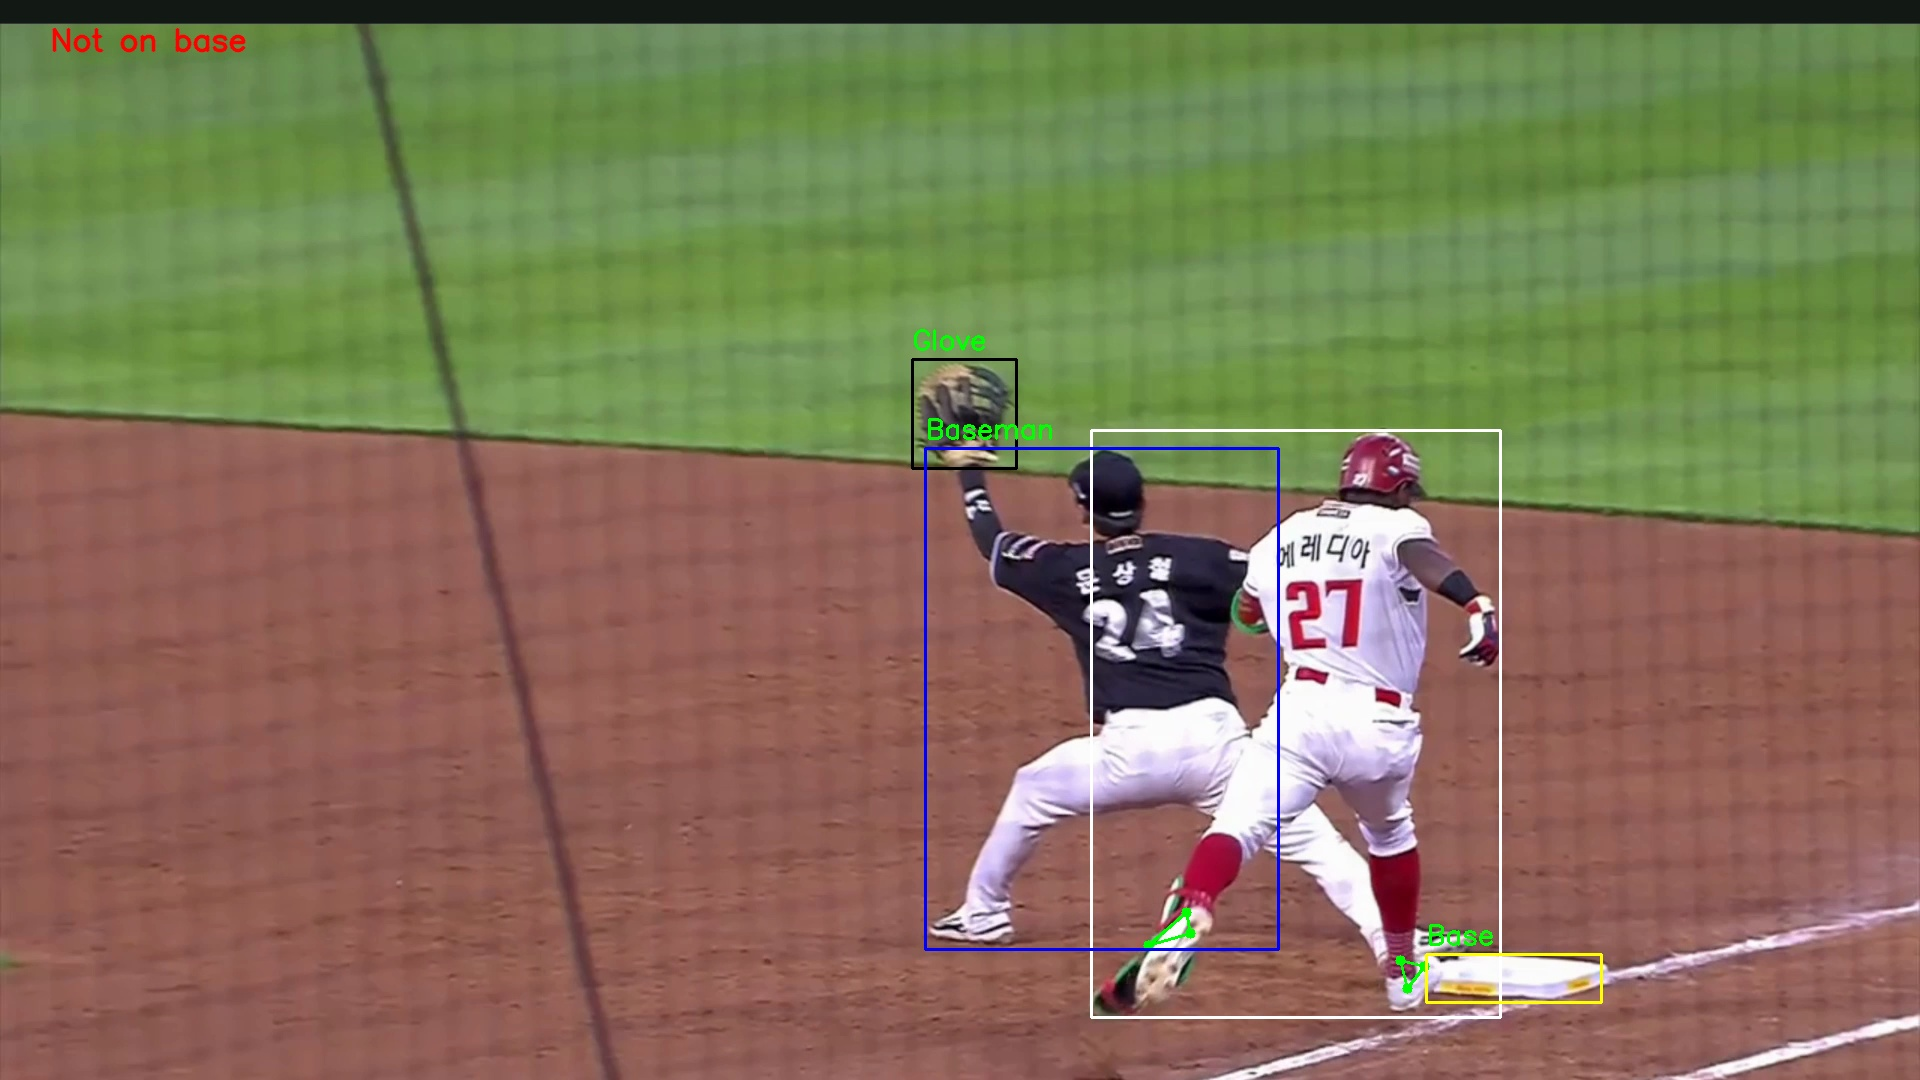
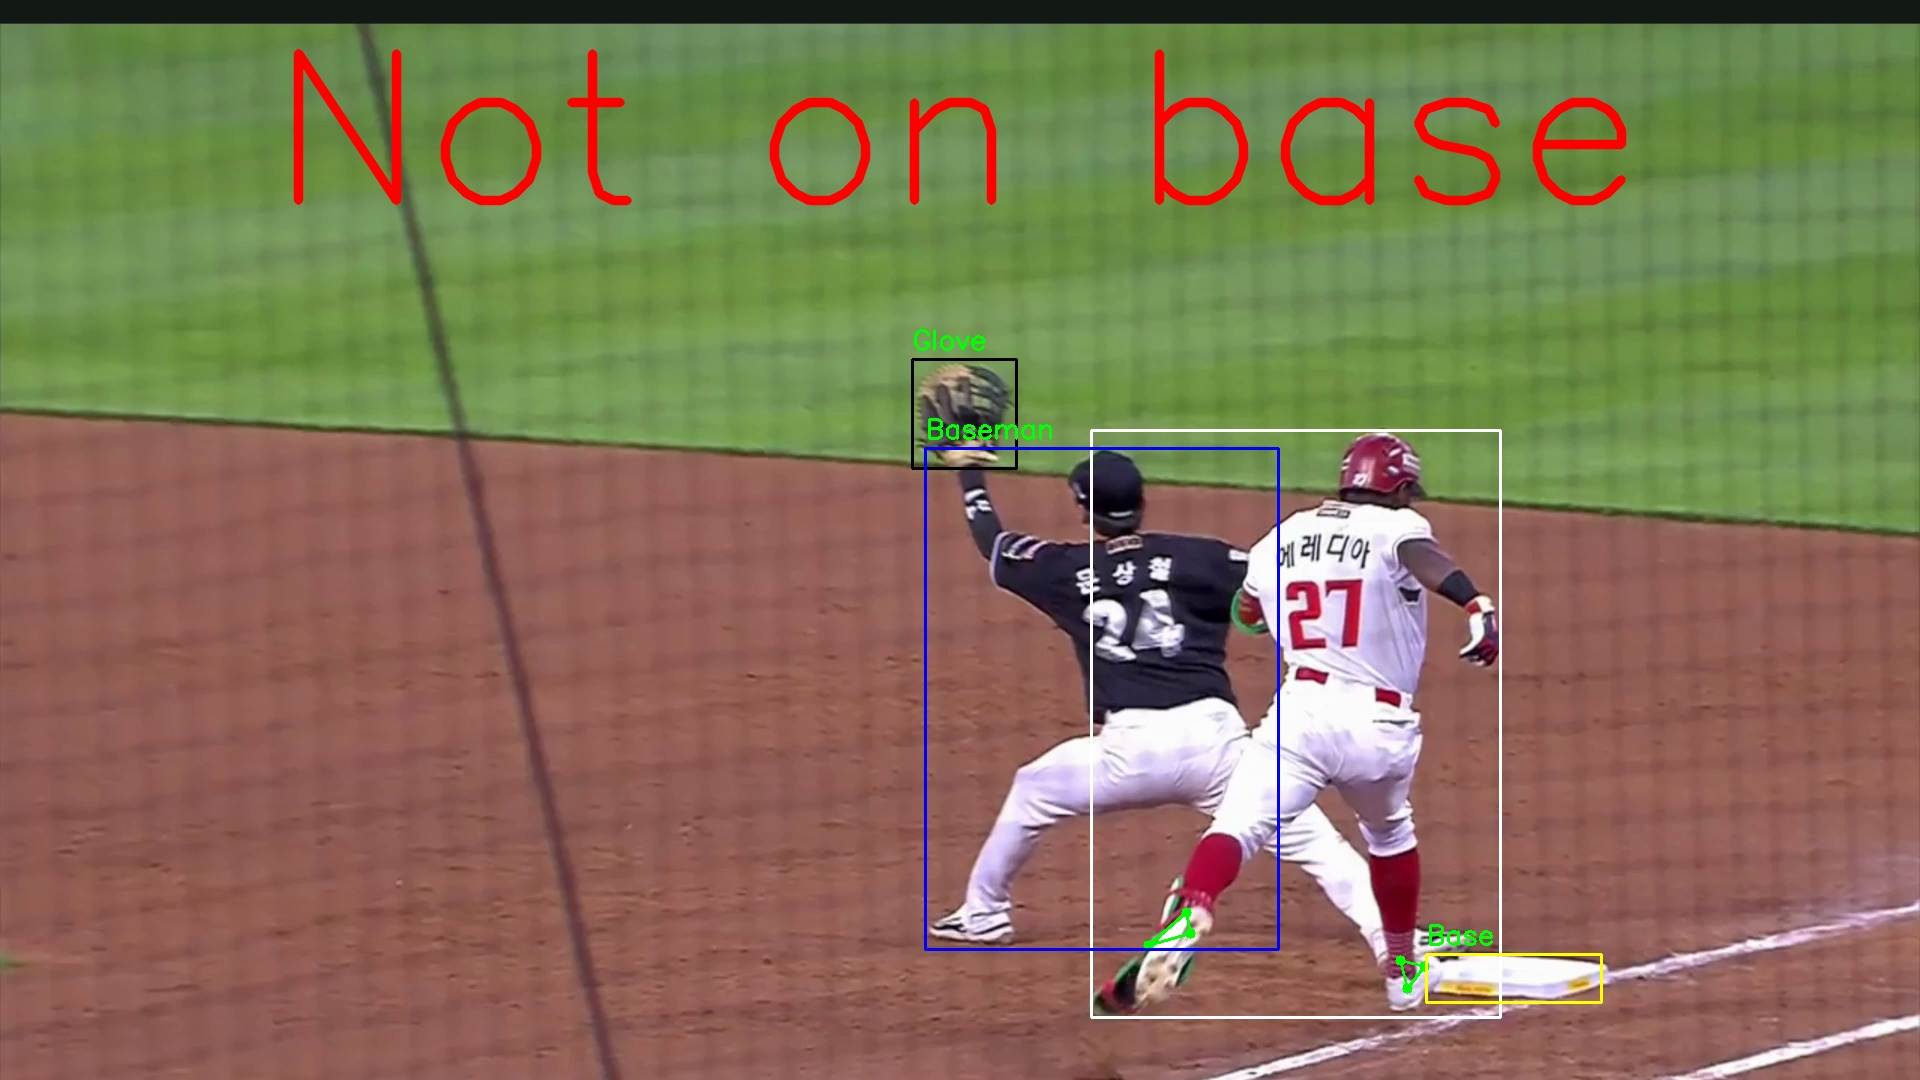
readme

diff --git a/server.py b/server.py
@@ -329,10 +329,19 @@ def process_video():
                         # 삼각형 선분이 직사각형 경계와 교차하는지 확인
             if is_triangle_line_in_box(triangle1, (Bx1, By1, Bx2, By2)) or is_triangle_line_in_box(triangle2, (Bx1, By1, Bx2, By2)):
                 print("베이스를 밟았습니다")
-                cv2.putText(annotated_image, "On base", (50, 50), cv2.FONT_HERSHEY_SIMPLEX, 1, (0, 0, 255), 2, cv2.LINE_AA)
+                
+                cv2.putText(annotated_image, "On base", (50, 50), cv2.FONT_HERSHEY_SIMPLEX, 3, (0, 0, 255), 4, cv2.LINE_AA)
             else:
                 print("베이스를 밟지 않았습니다")
-                cv2.putText(annotated_image, "Not on base", (50, 50), cv2.FONT_HERSHEY_SIMPLEX, 1, (0, 0, 255), 2, cv2.LINE_AA)
+                font_scale = 7
+                font_thickness = 7
+                text = "Not on base"
+                text_size, _ = cv2.getTextSize(text, cv2.FONT_HERSHEY_SIMPLEX, font_scale, font_thickness)
+                text_x = (annotated_image.shape[1] - text_size[0]) // 2
+                text_y = 200
+                cv2.putText(annotated_image, text, (text_x, text_y), cv2.FONT_HERSHEY_SIMPLEX, font_scale, (0, 0, 255), font_thickness, cv2.LINE_AA)
+                # cv2.putText(annotated_image, "Not on base", (50, 50), cv2.FONT_HERSHEY_SIMPLEX, 3, (0, 0, 255), 4, cv2.LINE_AA)
+
 
             
             frame_image_path = os.path.join(UPLOAD_FOLDER, 'result_frame.jpg')
@@ -405,7 +414,7 @@ def handle_disconnect():
 
 
 if __name__ == '__main__':
-    app.run(port=8081)
+    app.run(port=8082)
 
 
 

diff --git a/README.md b/README.md
@@ -1,0 +1,26 @@
+주제
+-> 1루 베이스 포스 아웃/세이프 상황에 대한 비디오 판독 자동화
+
+YOLO V11을 통한 데이터 학습
+['Runner', 'Base', 'Baseball_ball', 'Fielder1', 'Home_base', 'Fielder2', 'Umpire1', 'Umpire2', 'Glove'] 기준으로 라벨링 되어있는 데이터 활용
+학습에 활용하는 데이터 출처 https://www.aihub.or.kr/aihubdata/data/view.do?currMenu=&topMenu=&aihubDataSe=data&dataSetSn=71726
+
+기능 요약
+
+1. 서버를 통해 영상 입력 (영상은 공과 주자 등 움직임을 명확하게 인식할 수 있어야 함)
+2. YOLO V11 통해 학습된 모델 1로 공과 글러브 인식, 이후 포구 시점 파악
+3. YOLO V11 통해 학습된 모델 2로 베이스와 주자 인식, 이후 MediaPipe를 통해 주자의 발 좌표 인식
+4. 포구시점 시 주자의 발과 베이스 위치를 파악, 주자가 베이스를 밟았으면 safe, 밟지 못했으면 out으로 판정 가능
+
+사용 모델 및 언어
+YOLO V11, MediaPipe
+Flask
+Python
+
+
+<h3>Example Video</h3>
+<iframe width="560" height="315" 
+    src="https://youtu.be/YuXrAXy7xXE" 
+    frameborder="0" allowfullscreen>
+</iframe>
+
